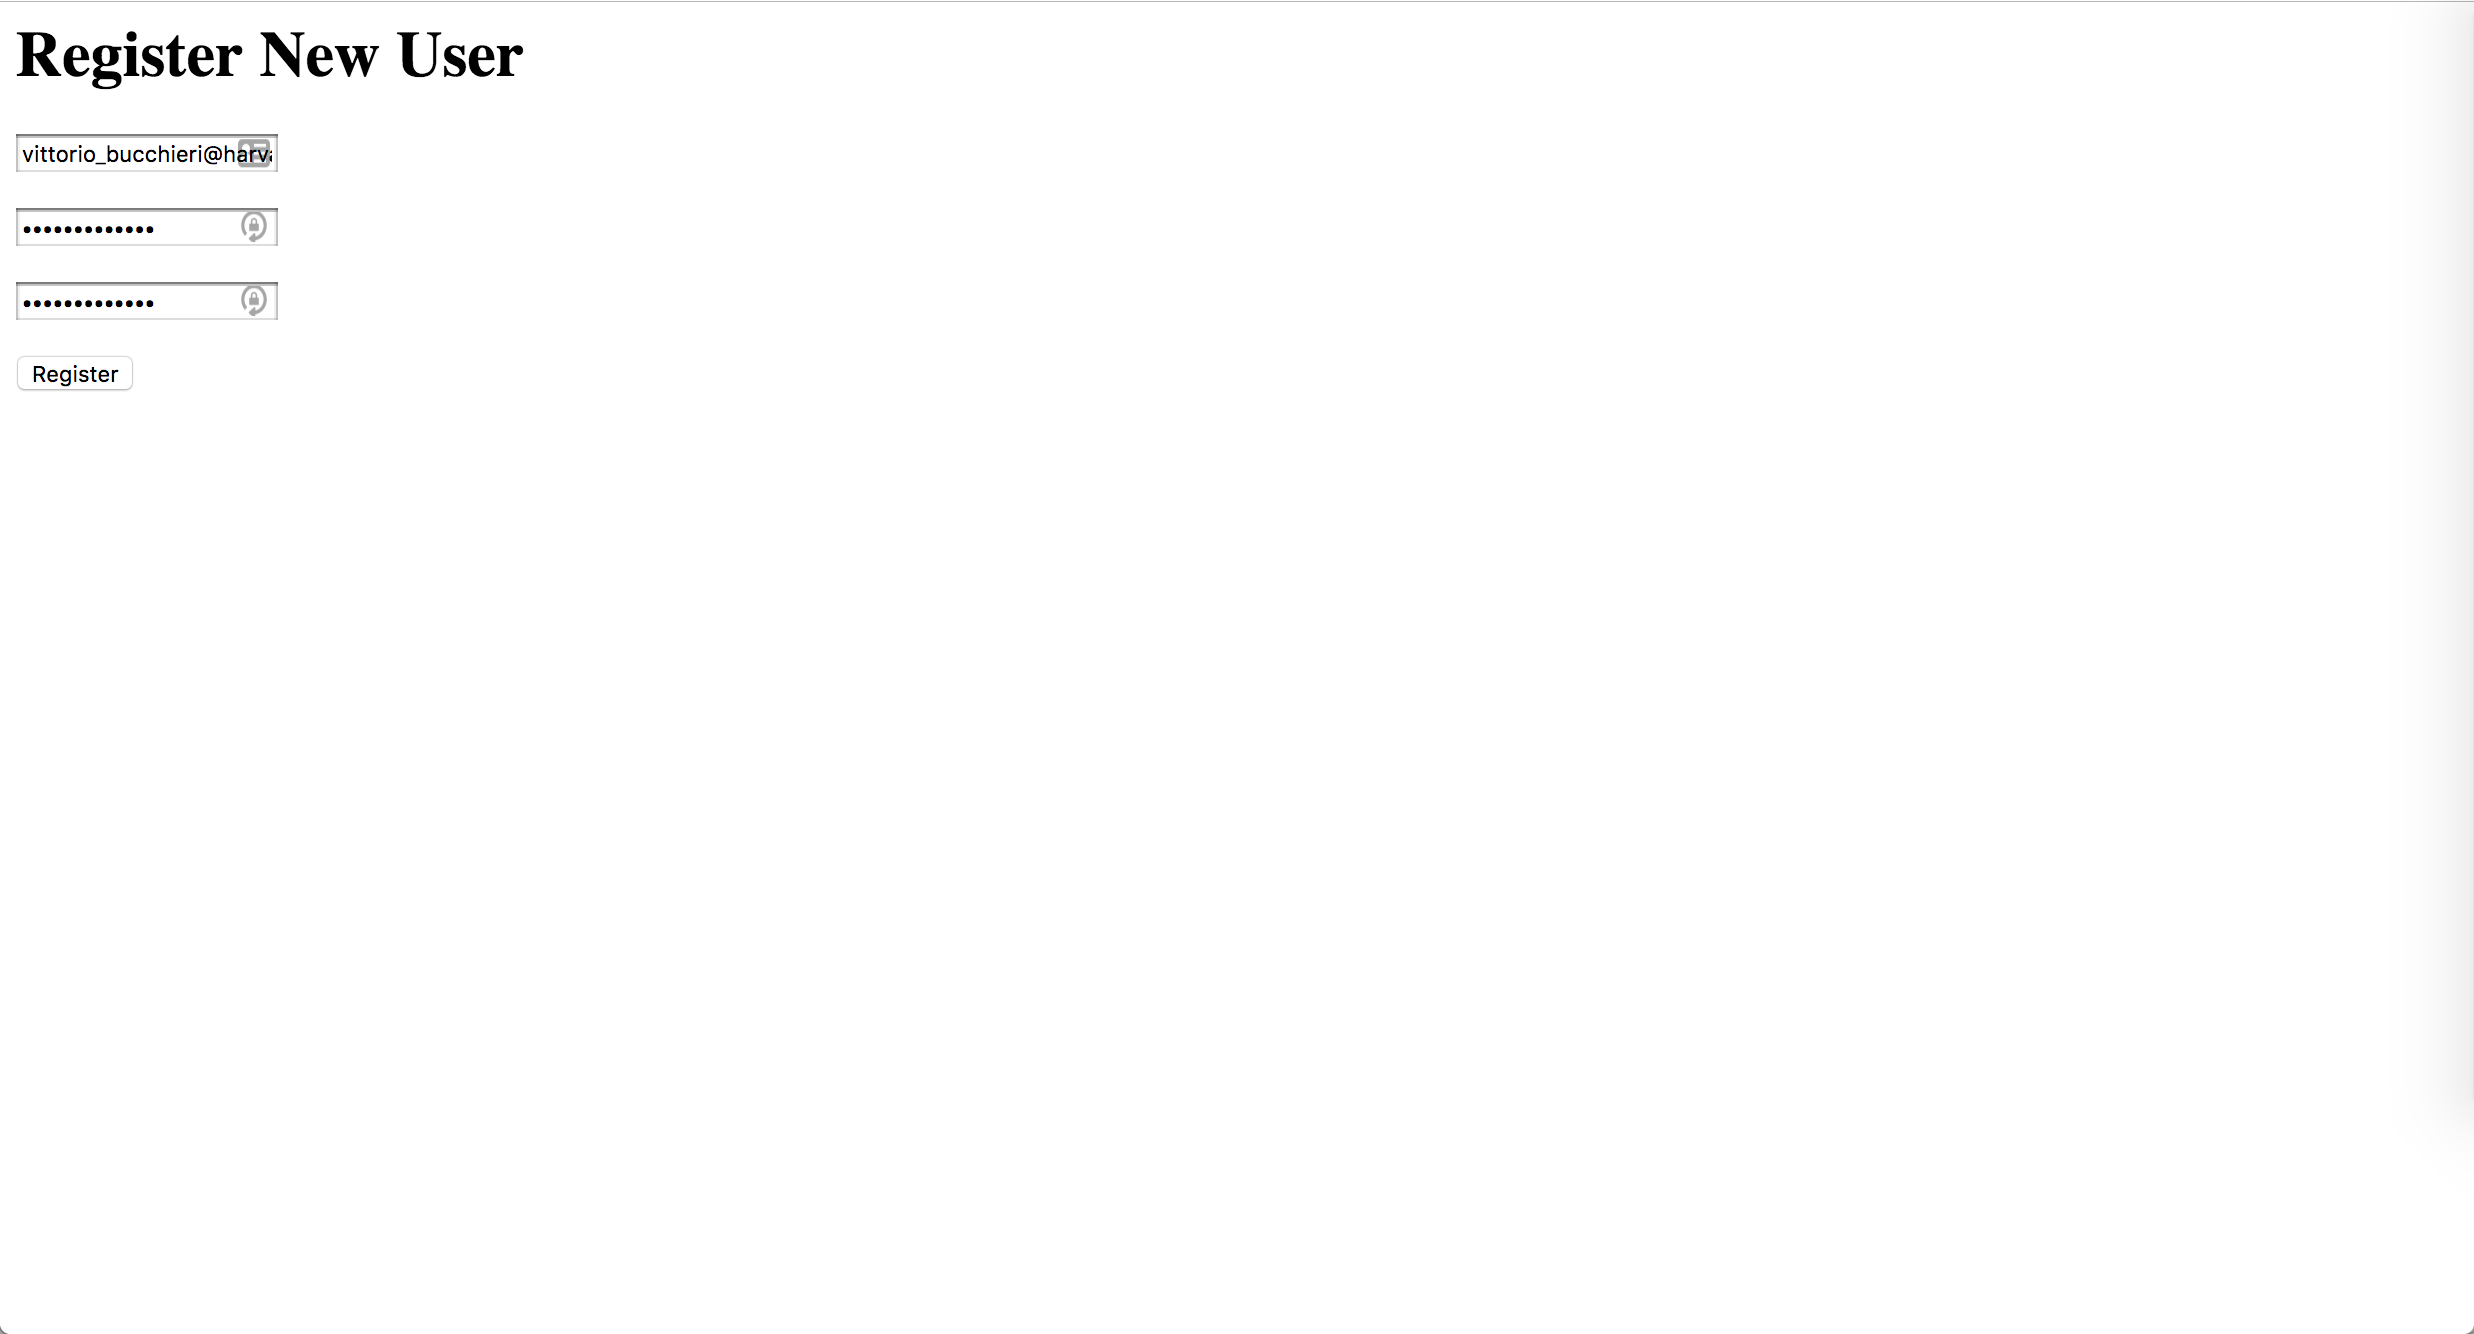
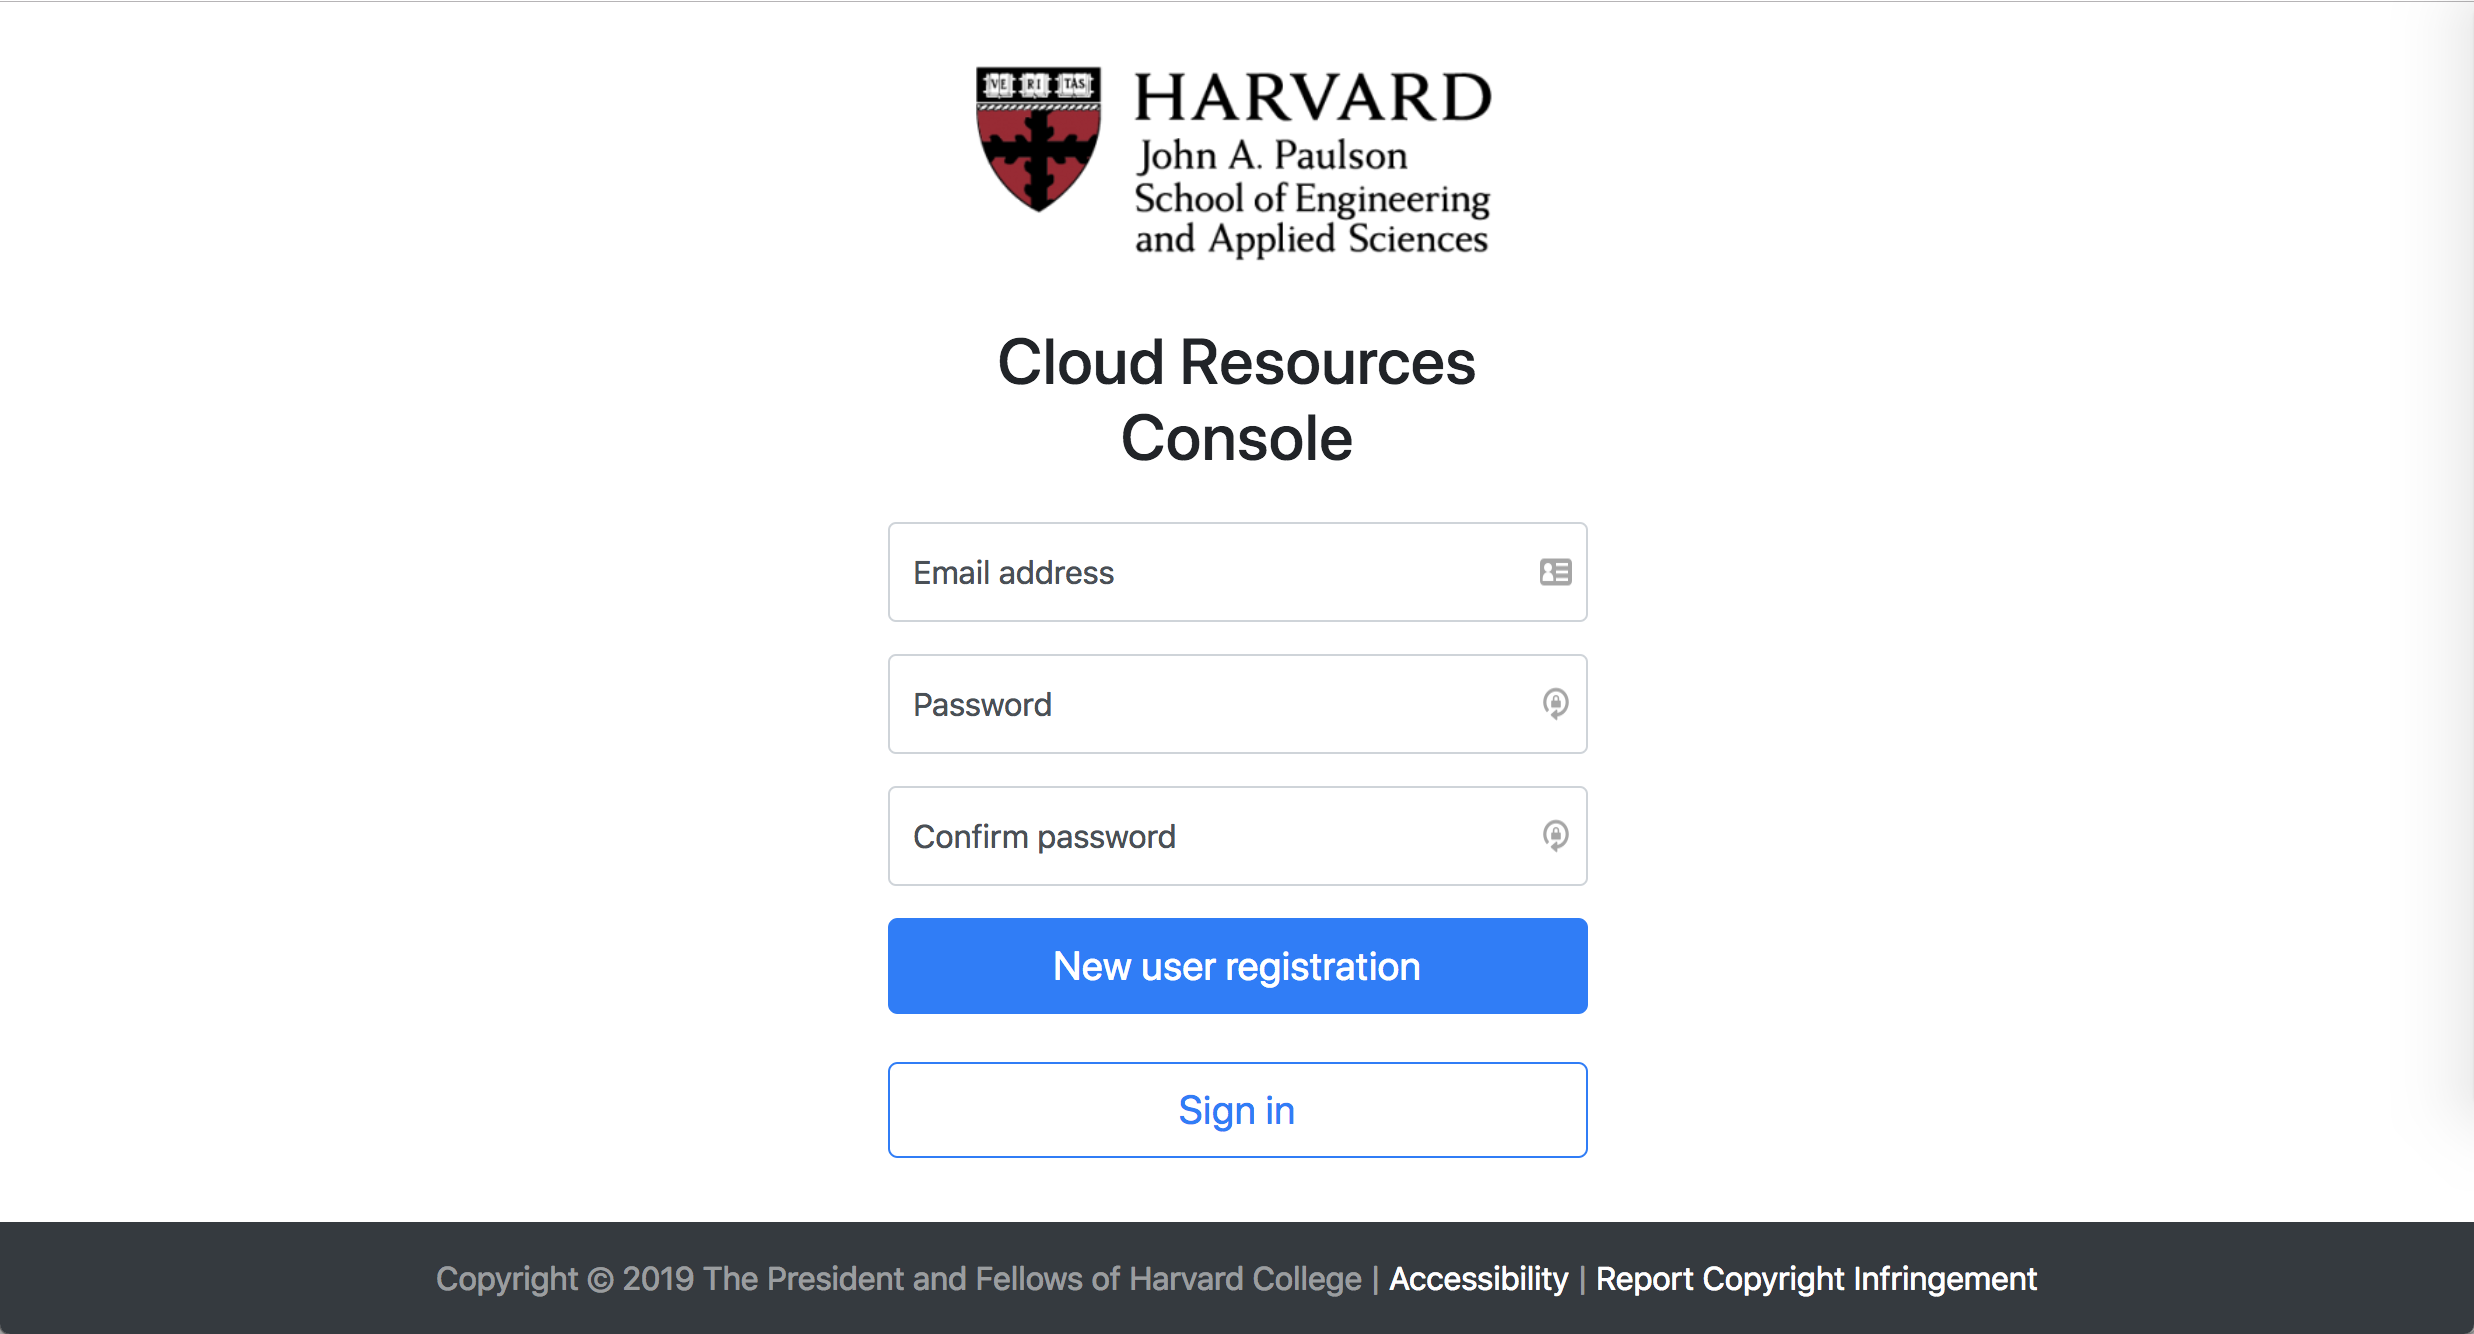
Add files via upload

diff --git a/AWS-CloudProvisioningConsole/SEAS-AWS_register/index.html b/AWS-CloudProvisioningConsole/SEAS-AWS_register/index.html
@@ -1,31 +1,95 @@
-<!--Current UI code of https://d2b4z2hciygw50.cloudfront.net/register.html?-->
+<!--Proposed UI code for https://d2b4z2hciygw50.cloudfront.net/register.html?-->
+<!--There are 11 UI comments in this commit-->
 
 
 
 
 
-
-<html>
+<!--UI comment #1 - HTML5 doctype-->
+<!doctype html>
+<!--UI comment #2 - language-->
+<html lang="en">
     <head>
         <meta charset="utf-8">
         <meta http-equiv="X-UA-Compatible" content="IE=edge,chrome=1">
-        <title></title>
-    </head>
-    <body>
-        <h1>Register New User</h1>
-        <form id="registrationForm">
-            <input type="email" id="emailInputRegister" placeholder="Email" pattern=".*" required=""
[1 lines of base64/hex data omitted]
-            <br> <br>
-            <input type="password" id="passwordInputRegister" placeholder="Password" pattern=".*" required=""
[1 lines of base64/hex data omitted]
-            <br> <br>
-            <input type="password" id="password2InputRegister" placeholder="Confirm Password" pattern=".*" required=""
[1 lines of base64/hex data omitted]
-            <br> <br>
 
-            <input type="submit" value="Register">
-        </form>
+<!--UI comment #3 - responsive meta tag -->
+        <meta name="viewport" content="width=device-width, initial-scale=1, shrink-to-fit=no">
+
+<!--UI comment #4 - SEAS favicon-->
+        <link rel="icon" type="image/png" href="https://www.seas.harvard.edu/favicon.ico">
+
+<!--UI comment #5 - Bootstrap CSS-->
+        <link rel="stylesheet" href="https://stackpath.bootstrapcdn.com/bootstrap/4.3.1/css/bootstrap.min.css"
+              integrity="sha384-ggOyR0iXCbMQv3Xipma34MD+dH/1fQ784/j6cY/iJTQUOhcWr7x9JvoRxT2MZw1T"
+              crossorigin="anonymous">
+
+<!--UI comment #6 - Custom styles for this template -->
+        <link href="floating-labels.css" rel="stylesheet">
+
+
+<!--UI comment #7 - adding title-->
+        <title>
+            Register - Cloud Resources Console | Harvard John A. Paulson School of Engineering and Applied Sciences
+        </title>
+        <meta name="description" content="">
+    </head>
+
+    <body>
+
+<!--UI comment #8 - Bootstrap responsive layout-->
+    <div class="container">
+        <div class="row">
+            <div class="col-lg-4 col-md-6 col-sm-6 col-xs-12 mx-auto mt-4">
+                <form>
+                    <div class="text-center mb-4">
+                        <img class="mb-4" src="https://static.projects.iq.harvard.edu/files/styles/os_files_medium/public/tib/files/2015_seaslogo_rgb_02.png?m=1472141717&itok=zwdYyihR" alt="Logo of Harvard John A. Paulson School of Engineering and Applied Sciences" style="width: 80%;">
+                        <h2>
+                            Cloud Resources Console
+                        </h2>
+                    </div>
+
+                    <div id="registrationForm" class="form-label-group">
+                        <input type="email" id="emailInputRegister" pattern=".*" required="" class="form-control" placeholder="Email address"
+                               autocomplete="off"
[1 lines of base64/hex data omitted]
+                        <label for="emailInputRegister">Email address</label>
+                    </div>
+
+                    <div class="form-label-group">
+                        <input type="password" id="passwordInputRegister" class="form-control" placeholder="Password" required=""
+                               autocomplete="off"
[1 lines of base64/hex data omitted]
+                        <label for="inputPassword">Password</label>
+                    </div>
+
+                    <div class="form-label-group">
+                        <input type="password" id="password2InputRegister" class="form-control" placeholder="Confirm password" required=""
+                               autocomplete="off"
[1 lines of base64/hex data omitted]
+                        <label for="password2InputRegister">Confirm password</label>
+                    </div>
+
+                    <input type="submit" value="New user registration" class="btn btn-lg btn-primary btn-block">
+                </form>
+
+                <div class="text-center mt-4">
+                    <a href="signin.html" class="btn btn-lg btn-outline-primary btn-block">Sign in</a>
+                </div>
+            </div>
+        </div>
+    </div>
+
+<!--UI comment #10 - standard Harvard footer-->
+        <nav class="navbar navbar-dark bg-dark fixed-bottom">
+            <span class="navbar-text mx-auto">
+                Copyright © 2019 The President and Fellows of Harvard College
+                |
+                <a href="http://accessibility.harvard.edu/">Accessibility</a>
+                |
+                <a href="http://www.harvard.edu/reporting-copyright-infringements">Report Copyright Infringement</a>
+            </span>
+        </nav>
 
         <script src="js/vendor/jquery-3.1.0.js"></script>
         <script src="js/vendor/aws-cognito-sdk.min.js"></script>
@@ -33,6 +97,17 @@
         <script src="js/config.js"></script>
         <script src="js/cognito-auth.js"></script>
 
+<!--UI comment #11 - adding optional Bootsrap JavaScript -->
+        <!-- jQuery first, then Popper.js, then Bootstrap JS -->
+        <script src="https://code.jquery.com/jquery-3.3.1.slim.min.js"
+                integrity="sha384-q8i/X+965DzO0rT7abK41JStQIAqVgRVzpbzo5smXKp4YfRvH+8abtTE1Pi6jizo"
+                crossorigin="anonymous"></script>
+        <script src="https://cdnjs.cloudflare.com/ajax/libs/popper.js/1.14.7/umd/popper.min.js"
+                integrity="sha384-UO2eT0CpHqdSJQ6hJty5KVphtPhzWj9WO1clHTMGa3JDZwrnQq4sF86dIHNDz0W1"
+                crossorigin="anonymous"></script>
+        <script src="https://stackpath.bootstrapcdn.com/bootstrap/4.3.1/js/bootstrap.min.js"
+                integrity="sha384-JjSmVgyd0p3pXB1rRibZUAYoIIy6OrQ6VrjIEaFf/nJGzIxFDsf4x0xIM+B07jRM"
+                crossorigin="anonymous"></script>
 
     </body>
 </html>

diff --git a/AWS-CloudProvisioningConsole/SEAS-AWS_register/floating-labels.css b/AWS-CloudProvisioningConsole/SEAS-AWS_register/floating-labels.css
@@ -1,0 +1,100 @@
+html,
+body {
+  height: 100%;
+}
+
+.form-signin {
+  width: 100%;
+  max-width: 420px;
+  padding: 15px;
+  margin: auto;
+}
+
+.registerForm {
+  width: 100%;
+  max-width: 420px;
+  padding: 15px;
+  margin: auto;
+  position: relative;
+}
+
+.form-label-group {
+  position: relative;
+  margin-bottom: 1rem;
+}
+
+.form-label-group > input,
+.form-label-group > label {
+  height: 3.125rem;
+  padding: .75rem;
+}
+
+.form-label-group > label {
+  position: absolute;
+  top: 0;
+  left: 0;
+  display: block;
+  width: 100%;
+  margin-bottom: 0; /* Override default `<label>` margin */
+  line-height: 1.5;
+  color: #495057;
+  pointer-events: none;
+  cursor: text; /* Match the input under the label */
+  border: 1px solid transparent;
+  border-radius: .25rem;
+  transition: all .1s ease-in-out;
+}
+
+.form-label-group input::-webkit-input-placeholder {
+  color: transparent;
+}
+
+.form-label-group input:-ms-input-placeholder {
+  color: transparent;
+}
+
+.form-label-group input::-ms-input-placeholder {
+  color: transparent;
+}
+
+.form-label-group input::-moz-placeholder {
+  color: transparent;
+}
+
+.form-label-group input::placeholder {
+  color: transparent;
+}
+
+.form-label-group input:not(:placeholder-shown) {
+  padding-top: 1.25rem;
+  padding-bottom: .25rem;
+}
+
+.form-label-group input:not(:placeholder-shown) ~ label {
+  padding-top: .25rem;
+  padding-bottom: .25rem;
+  font-size: 12px;
+  color: #777;
+}
+
+/* Fallback for Edge
+-------------------------------------------------- */
+@supports (-ms-ime-align: auto) {
+  .form-label-group > label {
+    display: none;
+  }
+  .form-label-group input::-ms-input-placeholder {
+    color: #777;
+  }
+}
+
+/* Fallback for IE
+-------------------------------------------------- */
+@media all and (-ms-high-contrast: none), (-ms-high-contrast: active) {
+  .form-label-group > label {
+    display: none;
+  }
+  .form-label-group input:-ms-input-placeholder {
+    color: #777;
+  }
+}
